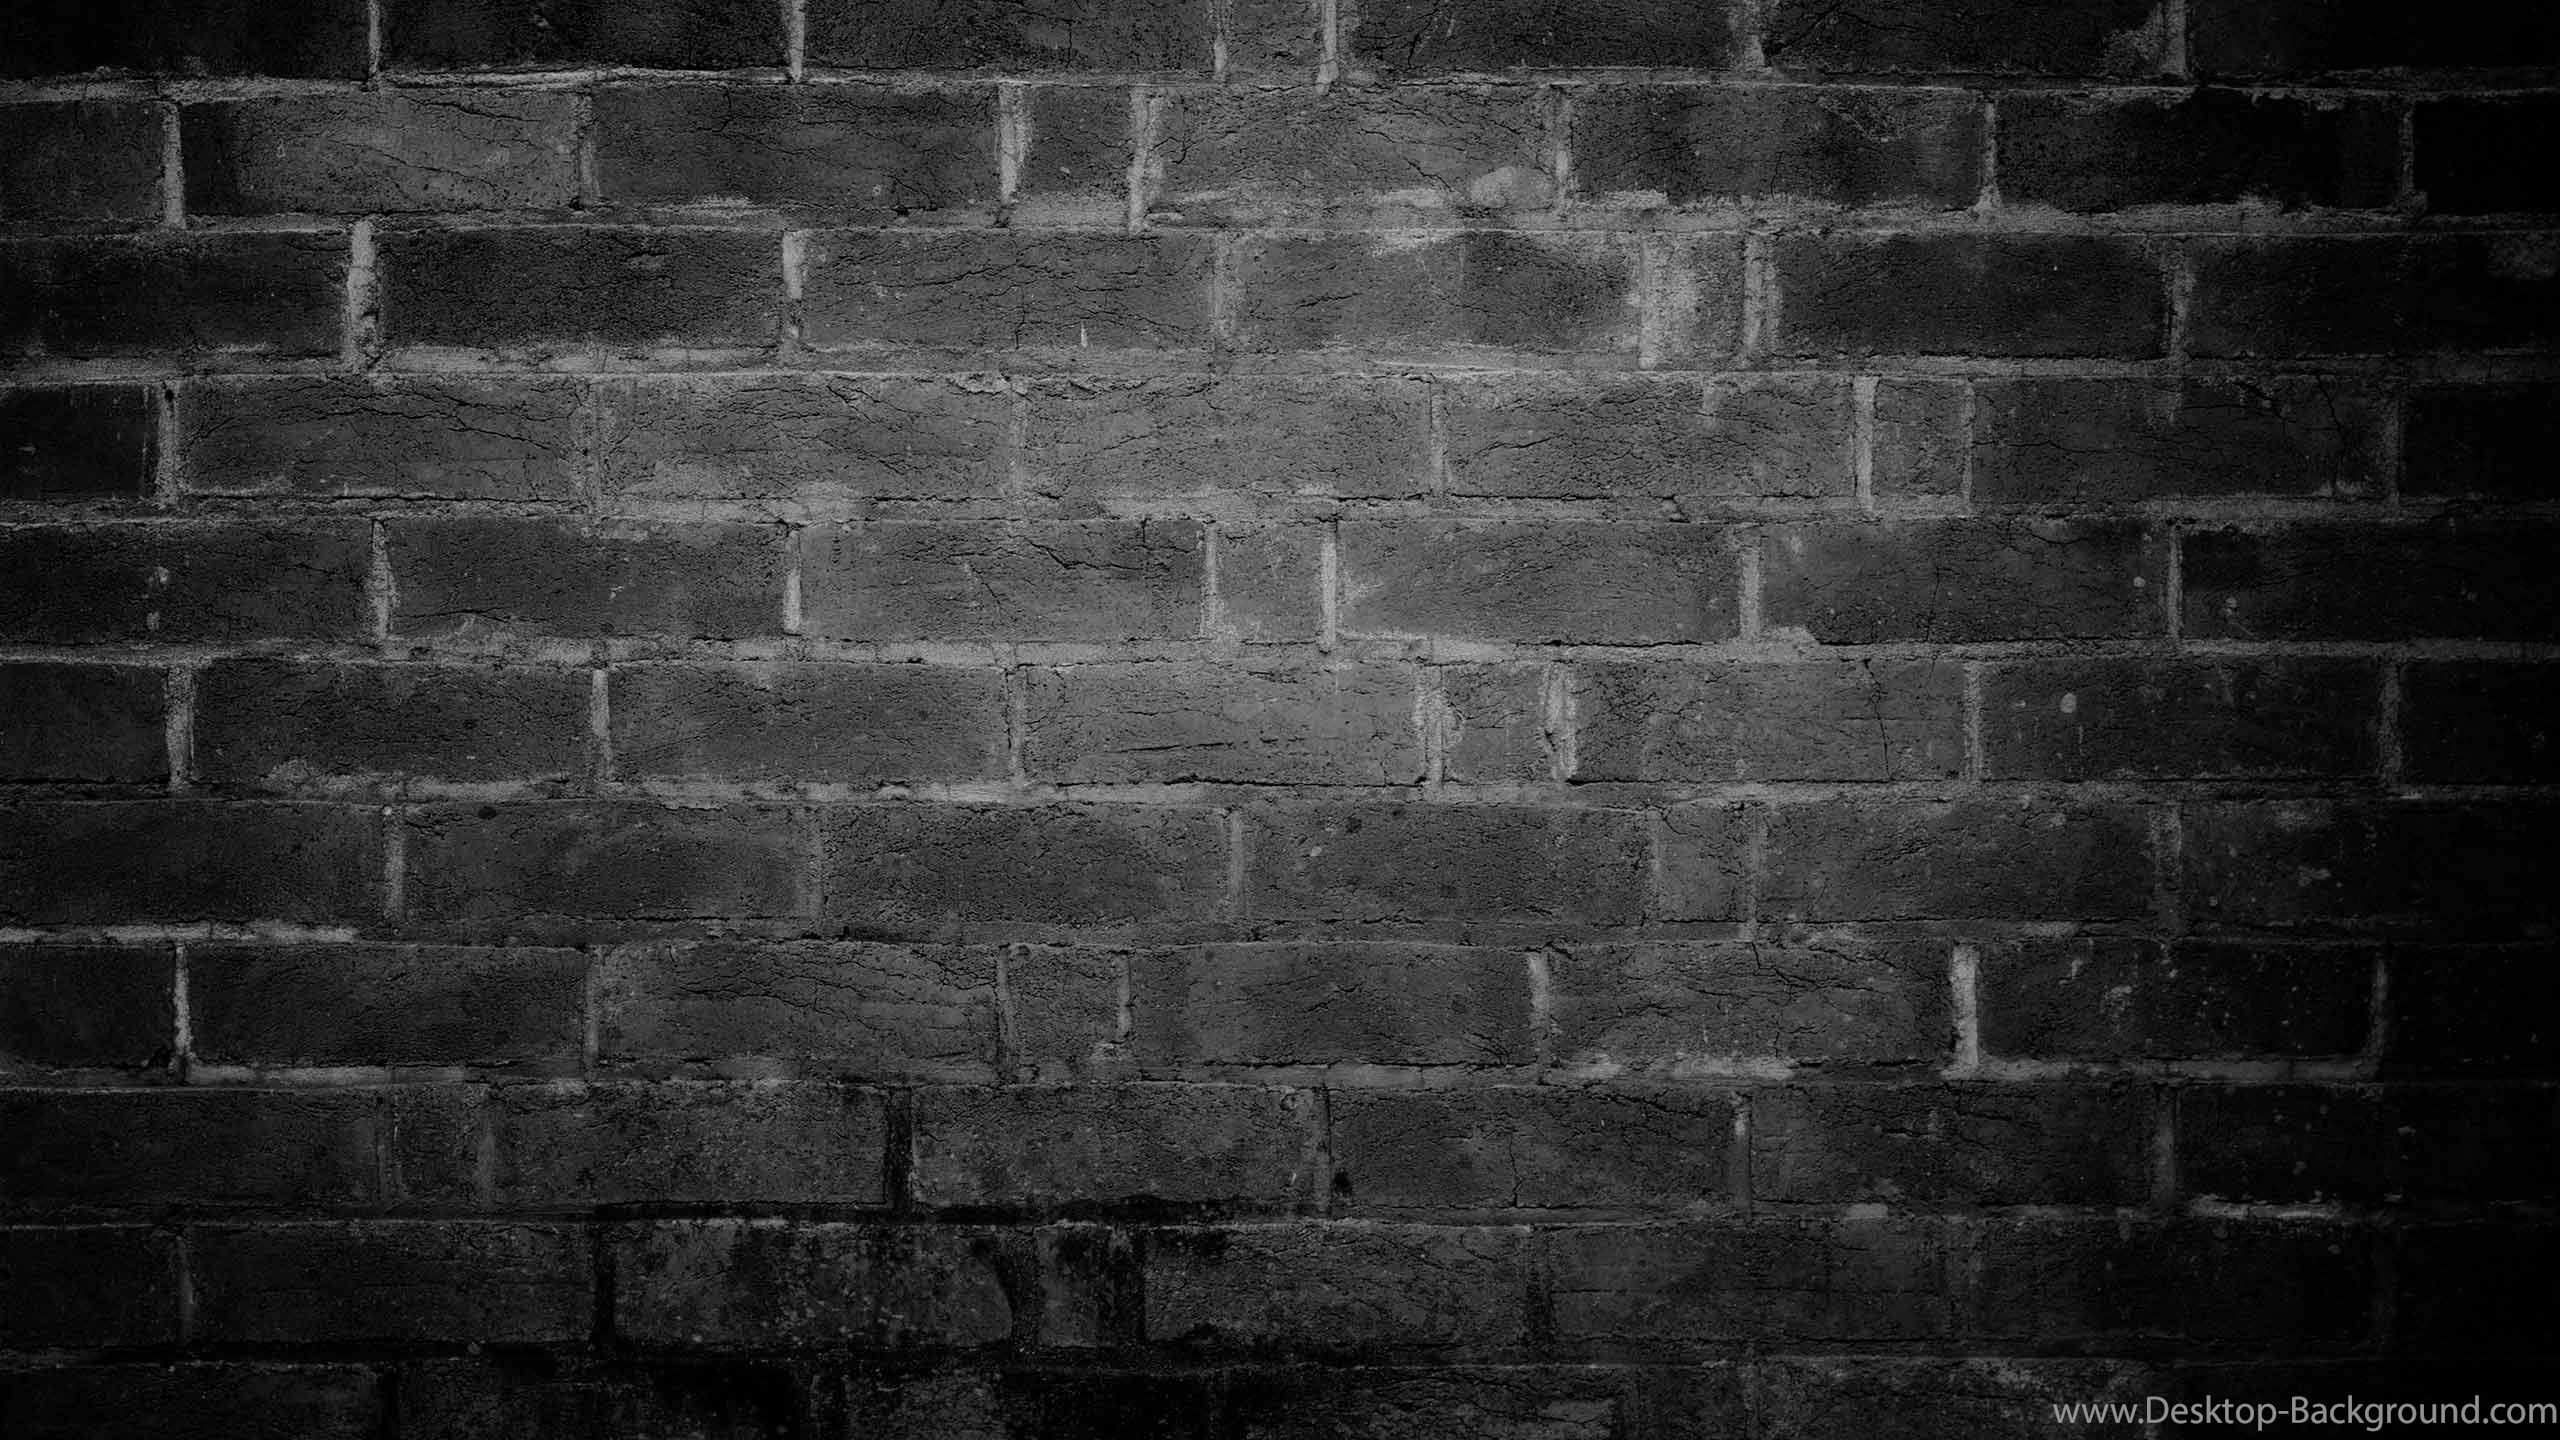
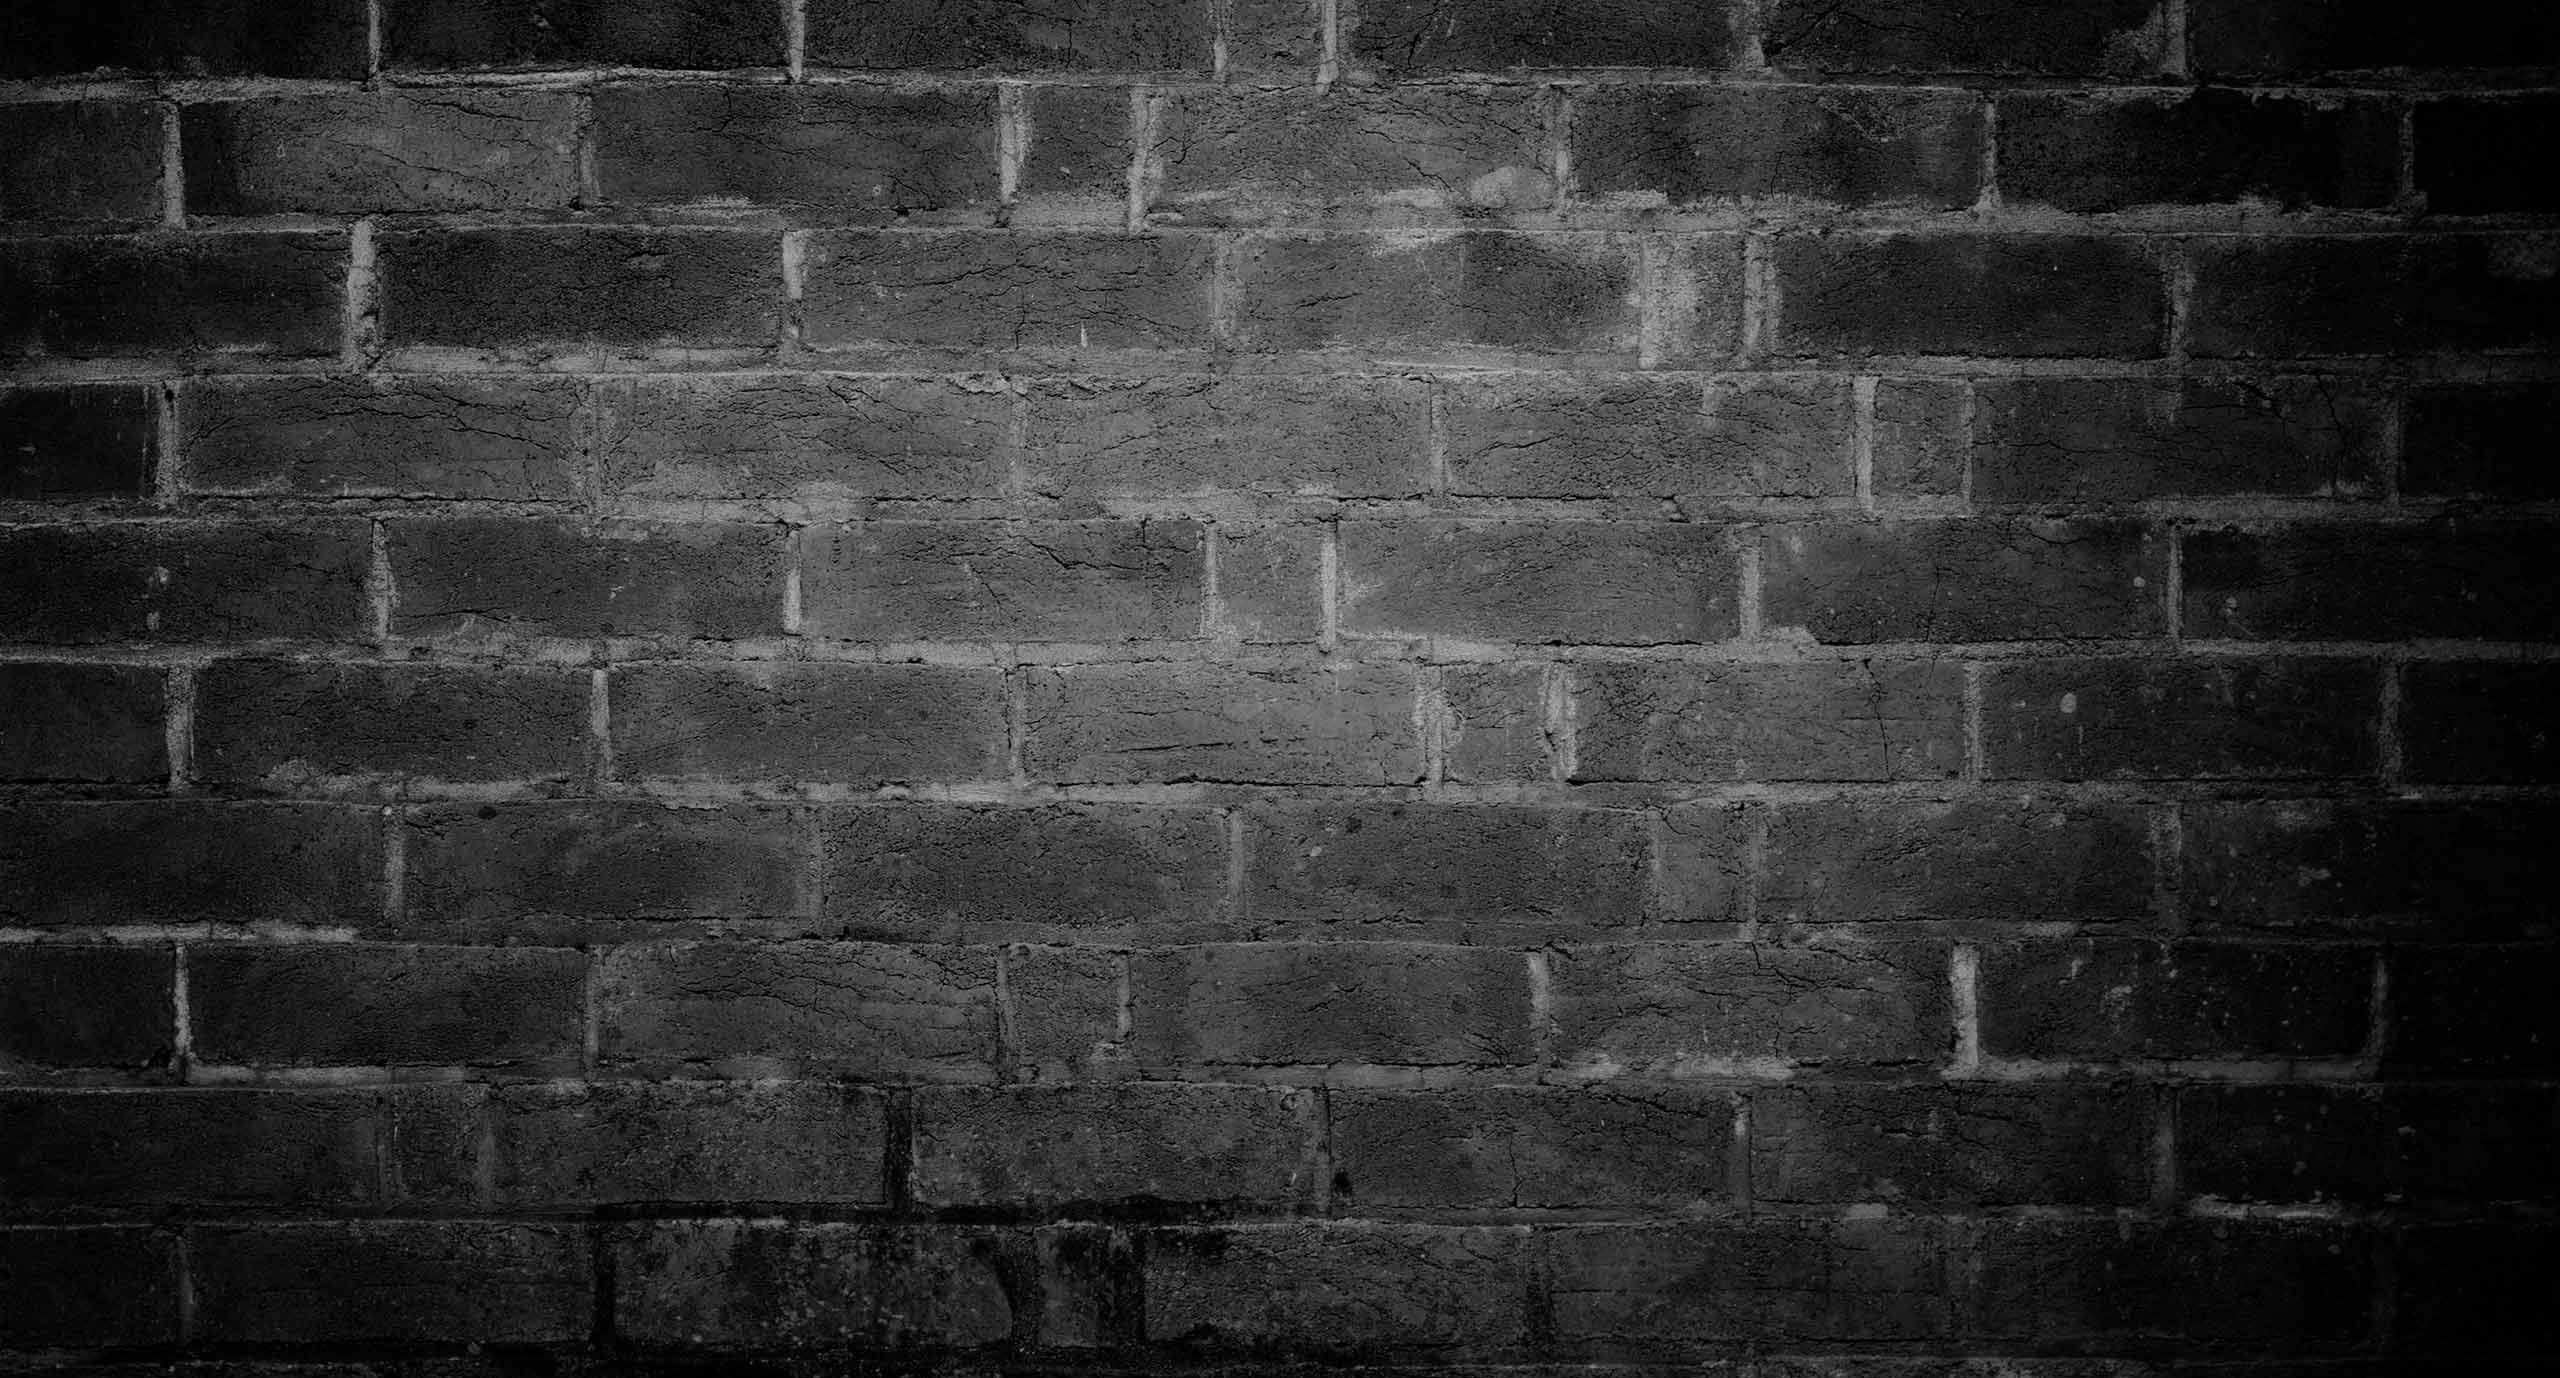
modif bg

Changed region(s): [[0.0, 0.0, 1.0, 1.0], [0.125, 0.9985, 0.1562, 1.0]]

diff --git a/src/pages/Home.js b/src/pages/Home.js
@@ -4,14 +4,14 @@ import logosansFond from "../assets/logosansFond.svg";
 const Home = () => {
 	return (
 		<>
-			<div className="w-full h-screen flex flex-col justify-center items-center">
-				<div className="mb-20 md:w-3/4 lg:w-1/2 sm:mb-0">
-					<img src={logosansFond} alt="" className="fill-white" />
+			<div className="w-full h-screen sm:h-auto flex flex-col justify-center items-center">
+				<div className="mb-20 max-w-[700px]">
+					<img src={logosansFond} alt="" className="" />
 				</div>
-				<button className="btn-home 	">
+				<button className="btn-home ">
 					<a
 						href="/homeboard"
-						className="border-solid	border-2 border-red-500 text-white text-3xl tracking-widest bg-transparent p-3 rounded-lg overflow-hidden"
+						className="border-solid	border-2 border-red-500 text-white text-3xl tracking-widest bg-transparent p-3 rounded-lg "
 					>
 						ENTRÉE
 					</a>

diff --git a/src/pages/Groupe.js b/src/pages/Groupe.js
@@ -1,6 +1,6 @@
 import React, { useEffect, useState } from "react";
 import Navbar from "../components/Navbar";
-import CarouselGroupe from "../components/CarouselGroupe";
+//import CarouselGroupe from "../components/CarouselGroupe";
 import Footer from "../components/Footer";
 import logoWhite from "../assets/logoWhite.svg";
 import logosansFond from "../assets/logosansFond.svg";
@@ -127,7 +127,7 @@ const Groupe = () => {
 							des festivals, bar, salon.
 						</p>
 					</div>
-					<CarouselGroupe slides={slides} />
+					{/* <CarouselGroupe slides={slides} /> */}
 				</main>
 				<Footer />
 			</div>

diff --git a/src/index.css b/src/index.css
@@ -10,9 +10,13 @@
 	margin: 0;
 	padding: 0;
 	box-sizing: border-box;
+	
 }
 body {
 	background-image: url("./assets/bg_2.jpg");
+	background-size: cover;
+	background-position: right;	
+	
 }
 nav,
 .title-group, .galleryTitle {
@@ -28,7 +32,7 @@ nav,
 .groupeImg{
 	shape-outside: margin-box;
 	border-radius: 35%;
-	/* margin: 0 20px 5px 0; */
+	
 	
 }
 

diff --git a/src/pages/Medias/Photos.js b/src/pages/Medias/Photos.js
@@ -27,7 +27,7 @@ const Photos = () => {
 
 	return (
 		<>
-			<div className="flex flex-col w-Full h-auto bg-gray-800">
+			<div className="flex flex-col w-Full h-auto ">
 				<Navbar />
 				<main className="flex-1 w-full flex flex-col items-center justify-center mt-40">
 					<h1 className="galleryTitle text-4xl text-red-600 underline mb-12">

diff --git a/src/components/Card.js b/src/components/Card.js
@@ -14,7 +14,7 @@ const Card = ({ gallery }) => {
 			onClick={toggleClass}
 			className={
 				toggleBig
-					? "block w-full lg:scale-[2] lg:cursor-pointer"
+					? "block w-full lg:scale-[1.6] lg:cursor-pointer"
 					: "block w-full aspect-auto lg:cursor-pointer"
 			}
 		>
